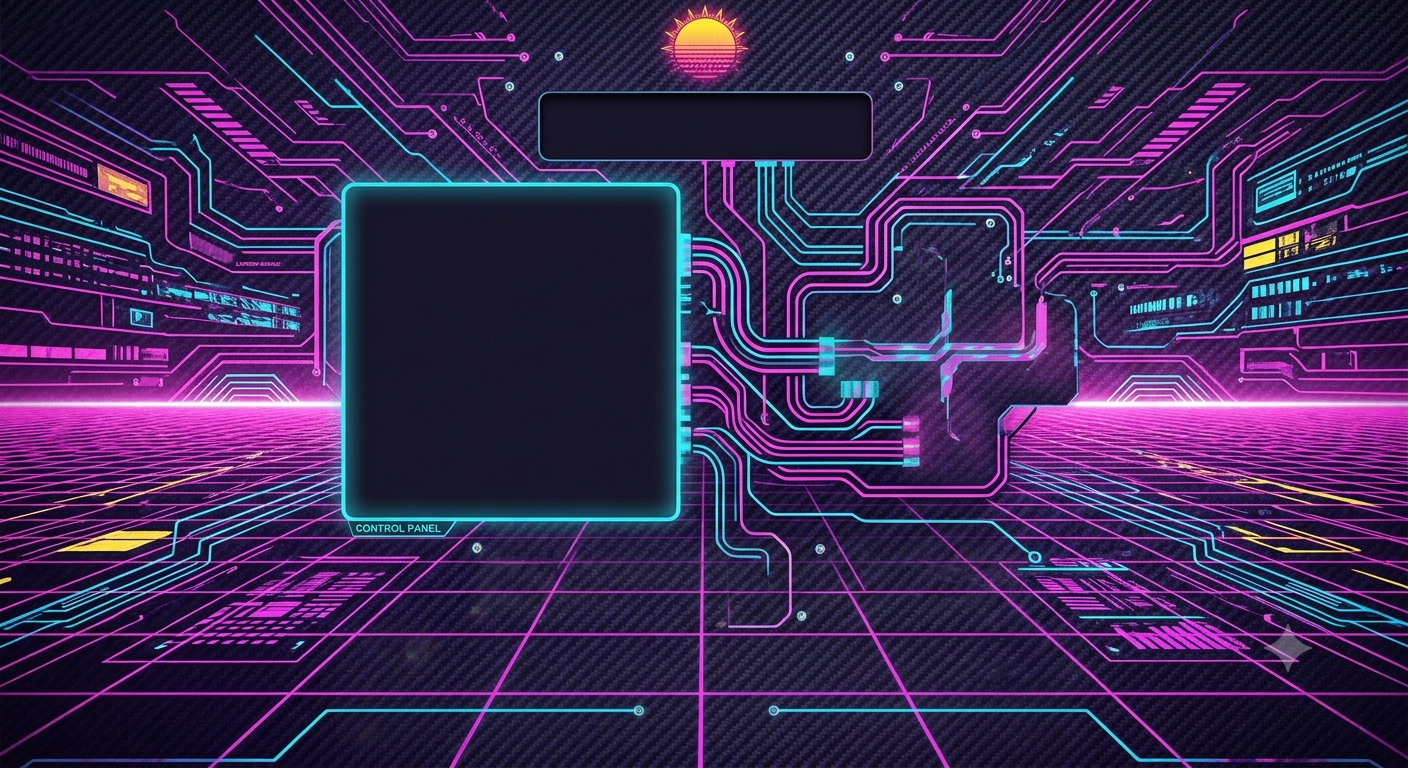
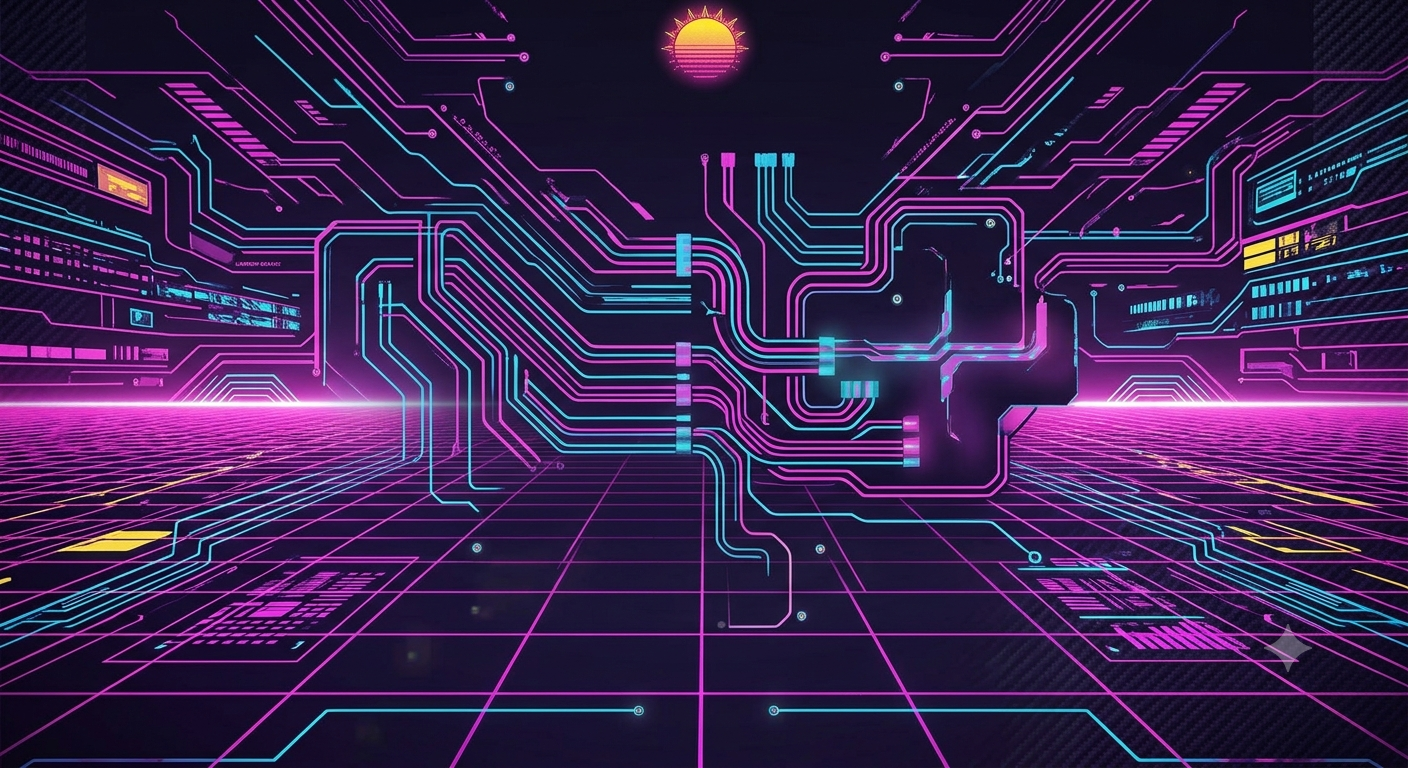
Cambiar background y fondo de canva

diff --git a/cazando.css b/cazando.css
@@ -1,33 +1,21 @@
-/* Configuración General - Fondo Oscuro Cyberpunk */
+/* Configuración General - Carga y acople de background.png */
 body {
   text-align: center;
   font-family: 'Courier New', Courier, monospace, sans-serif;
-  background-color: #0b0b16;
+  
+  /* Carga de tu imagen de fondo personalizada */
+  background-image: url('background.png');
+  background-size: cover;
+  background-position: center;
+  background-repeat: no-repeat;
+  background-attachment: fixed;
+  background-color: #0d0d1a; /* Color de respaldo oscuro por si tarda en cargar la imagen */
+  
   color: #fff;
   margin: 0;
   padding: 20px;
   min-height: 100vh;
   box-sizing: border-box;
-  position: relative;
-  overflow-x: hidden;
-}
-
-/* Gráfico de Fondo Acoplado y Posicionado */
-.retro-bg {
-  position: fixed;
-  top: 0;
-  left: 0;
-  width: 100%;
-  height: 100%;
-  z-index: -1; /* Se mantiene detrás de todo el HTML */
-  background-image: 
-    linear-gradient(transparent 50%, rgba(255, 0, 127, 0.15) 50%),
-    linear-gradient(90deg, rgba(0, 240, 255, 0.1) 1px, transparent 1px),
-    linear-gradient(rgba(0, 240, 255, 0.1) 1px, transparent 1px);
-  background-size: 100% 100%, 40px 40px, 40px 40px;
-  /* Efecto de perspectiva para simular profundidad */
-  perspective: 500px;
-  transform: scale(1.1);
 }
 
 /* Título Retro Neón */
@@ -40,7 +28,7 @@ h1 {
   letter-spacing: 2px;
 }
 
-/* Contenedor Principal (Flexbox para alinear Canvas e inputs lado a lado) */
+/* Distribución lado a lado de los elementos principales */
 .juego-contenedor {
   display: flex;
   justify-content: center;
@@ -48,18 +36,17 @@ h1 {
   gap: 40px;
   max-width: 900px;
   margin: 0 auto 20px auto;
-  position: relative;
 }
 
-/* Canvas con Marco de Neón Cian (Contrasta perfectamente sobre el fondo oscuro) */
+/* Área del Canvas (Se le añade un fondo semitransparente oscuro y borde brillante) */
 canvas {
-  background: #05050a;
+  background: rgba(55, 55, 141, 0.85);
   border: 4px solid #00f0ff;
-  box-shadow: 0 0 20px rgba(0, 240, 255, 0.4), inset 0 0 15px #00f0ff;
+  box-shadow: 0 0 15px rgba(0, 240, 255, 0.4), inset 0 0 15px #00f0ff;
   border-radius: 8px;
 }
 
-/* Distribución de Botones de Dirección (Estilo Arcade) */
+/* Distribución de la cruceta de controles */
 .controles-direccion {
   display: flex;
   flex-direction: column;
@@ -72,9 +59,9 @@ canvas {
   gap: 10px;
 }
 
-/* Estilo Base de los Botones Neón */
+/* Botones con estilo Arcade Neón */
 button {
-  background: rgba(11, 11, 22, 0.9); /* Fondo semi-opaco para no perderse con la rejilla */
+  background: rgba(13, 13, 26, 0.9);
   color: #00f0ff;
   border: 2px solid #00f0ff;
   padding: 12px 20px;
@@ -93,7 +80,7 @@ button:hover {
   box-shadow: 0 0 15px #00f0ff, 0 0 25px #00f0ff;
 }
 
-/* Botón Reiniciar con Variante Magenta */
+/* Botón Reiniciar con color Magenta */
 #btn-reiniciar {
   color: #ff007f;
   border-color: #ff007f;
@@ -107,12 +94,7 @@ button:hover {
   box-shadow: 0 0 15px #ff007f, 0 0 25px #ff007f;
 }
 
-/* Bloque Inferior: Panel de Estado */
-.estado-juego {
-  margin-top: 20px;
-  position: relative;
-}
-
+/* Panel de Puntos y Tiempo inferior */
 .panel {
   font-size: 24px;
   font-weight: bold;
@@ -124,7 +106,7 @@ button:hover {
   text-shadow: 0 0 8px #ffff00;
 }
 
-/* Mensaje de Alerta/Fin de juego */
+/* Espacio reservado para los textos de fin de juego */
 #mensaje {
   font-size: 22px;
   font-weight: bold;
@@ -134,26 +116,31 @@ button:hover {
   height: 25px;
 }
 
-/* Pie de página con diseño de Avatar */
+/* Pie de página y estructura del Avatar */
 footer {
   margin-top: 40px;
-  border-top: 1px dashed #333355;
+  border-top: 1px dashed rgba(255, 255, 255, 0.2);
   padding-top: 15px;
-  position: relative;
 }
 
 .autor-contenedor {
   display: flex;
   align-items: center;
   justify-content: center;
-  gap: 15px;
-  font-size: 14px;
-  color: #8888aa;
+  gap: 12px; /* Espacio exacto entre el avatar y el texto */
 }
 
+.autor-contenedor p {
+  margin: 0;
+  font-size: 16px;
+  color: #e0e0ff;
+  text-shadow: 0 0 5px rgba(0, 240, 255, 0.5);
+}
+
+/* Diseño del Avatar circular al lado del Autor */
 .autor-avatar {
-  width: 45px;
-  height: 45px;
+  width: 42px;
+  height: 42px;
   border-radius: 50%;
   object-fit: cover;
   border: 2px solid #ff007f;

diff --git a/index.html b/index.html
@@ -8,19 +8,6 @@
 </head>
 <body onload="iniciarJuego()">
 
-  <div class="retro-bg">
-    <svg xmlns="http://www.w3.org/2000/svg" width="100%" height="100%">
-      <defs>
-        <linearGradient id="solGrad" x1="0%" y1="0%" x2="0%" y2="100%">
-          <stop offset="0%" stop-color="#ff007f" />
-          <stop offset="50%" stop-color="#ff0055" />
-          <stop offset="100%" stop-color="#ffff00" />
-        </linearGradient>
-      </defs>
-      <circle cx="50%" cy="40%" r="120" fill="url(#solGrad)" opacity="0.15" />
-    </svg>
-  </div>
-
   <header>
     <h1>Juego Cazando</h1>
   </header>